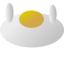
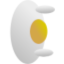
More 0g Like controls

diff --git a/src/entities/player.ts b/src/entities/player.ts
@@ -1,9 +1,34 @@
-import { Textures, GameObjects, Scene } from "phaser";
+import { Body } from "matter";
+import { Textures, GameObjects, Scene, Physics } from "phaser";
 
 export class Player {
-    sprite: GameObjects.Sprite;
+    sprite: Physics.Matter.Sprite;
 
     constructor (scene:Scene, x:number, y:number) {
-        this.sprite = scene.add.sprite(x,y,'player', 0);
+        this.sprite = scene.matter.add.sprite(x,y,'player');
+        this.sprite.setFrictionAir(0);
+        this.sprite.setBounce(0.2);
+        this.sprite.setRotation(Math.PI * 1.5);
+    }
+
+    update(scene: Scene, time: number, delta: number) {
+        const ndelta = delta / 16.0;
+        const cursors = scene.input.keyboard.createCursorKeys();
+        const body = this.sprite.body as any;
+        let curAngVel = body.angularVelocity;
+        if (cursors.left.isDown) {
+            curAngVel += -0.002 * ndelta;
+
+        } else if (cursors.right.isDown) {
+            curAngVel -= -0.002 * ndelta;
+        }
+        this.sprite.setAngularVelocity(curAngVel);
+
+        if (cursors.up.isDown) {
+            this.sprite.thrust(0.003 * ndelta);
+        }
+        if (cursors.down.isDown) {
+            this.sprite.thrust(-0.001 * ndelta);
+        }
     }
 }

diff --git a/src/main.ts b/src/main.ts
@@ -1,17 +1,25 @@
 import './style.css';
 
-import { Game } from 'phaser';
+import { Game, Types } from 'phaser';
 import { MainGame } from './scenes/maingame';
 
 const main = () => {
-    const config = {
+    const config: Types.Core.GameConfig = {
         type: Phaser.WEBGL,
         width: 1280,
         height: 720,
-        pixelArt: true,
         scale: {
             mode: Phaser.Scale.FIT,
             autoCenter: Phaser.Scale.CENTER_BOTH,
+        },
+        physics: {
+            default: 'matter',
+            matter: {
+                gravity: {
+                    y: 0
+                },
+                debug: false
+            }
         },
         scene: [ MainGame ]
     };

diff --git a/src/scenes/maingame.ts b/src/scenes/maingame.ts
@@ -19,6 +19,11 @@ export class MainGame extends Scene {
         const width = window.innerWidth;
         const height = window.innerHeight;
         const bg = this.add.tileSprite(width/2, height/2, width, height, 'bg');
+        this.matter.world.setBounds(0, 0, 1280, 720);
         this.player = new Player(this, 640, 360)
+    }
+
+    update(time: number, delta: number) {
+        this.player?.update(this, time, delta);
     }
 }
